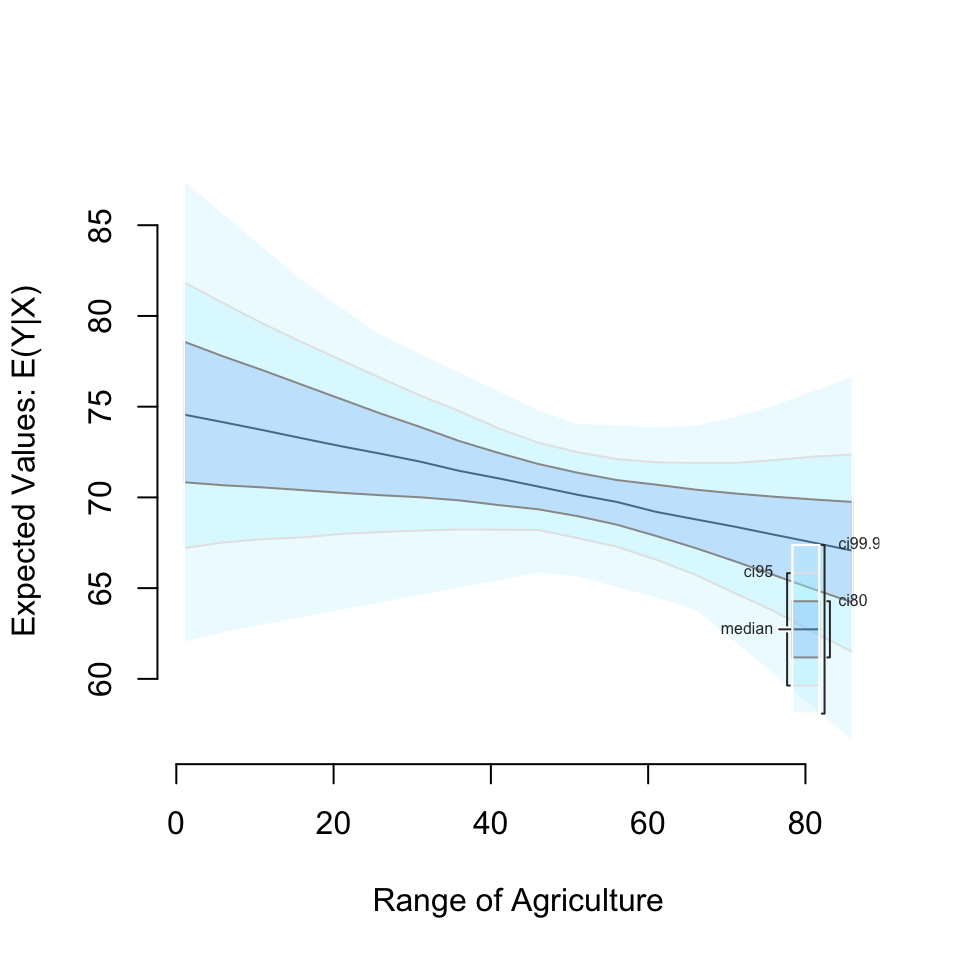
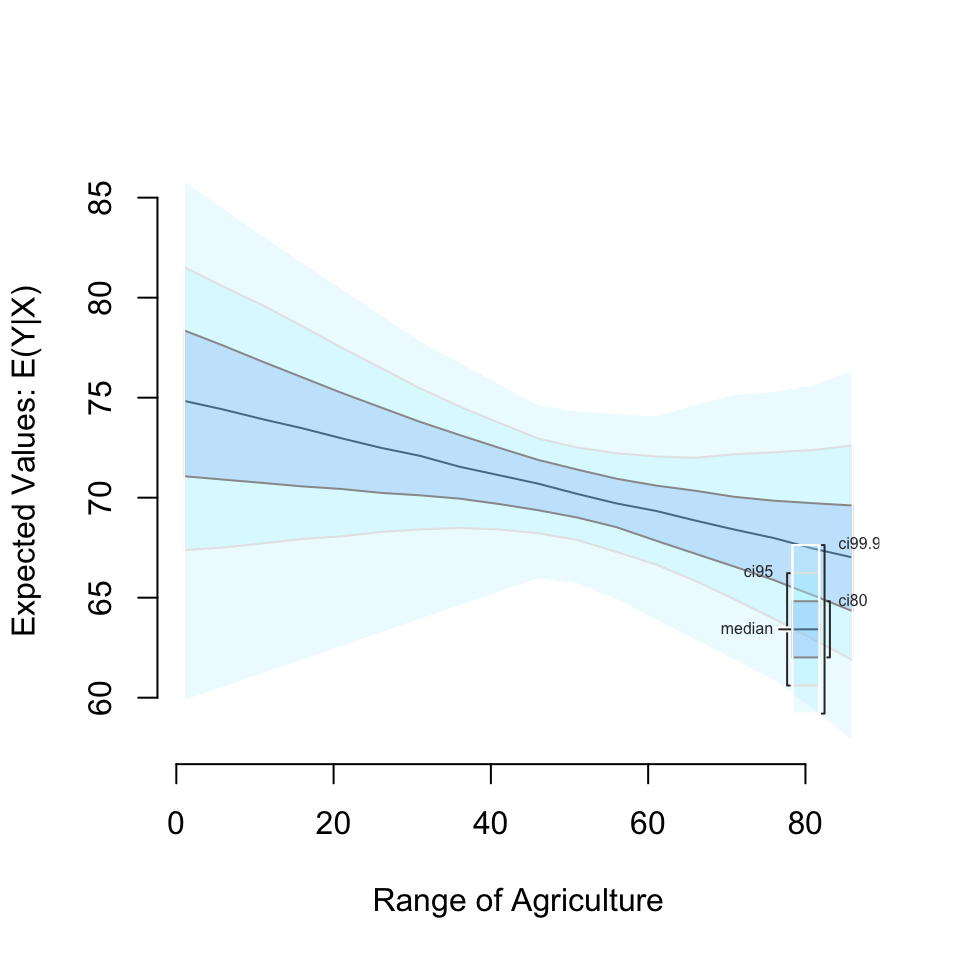
minor

diff --git a/docs/articles/available-models-overview_files/diagonalNetwork-binding-0.4/diagonalNetwork.js b/docs/articles/available-models-overview_files/diagonalNetwork-binding-0.4/diagonalNetwork.js
@@ -1,0 +1,189 @@
+HTMLWidgets.widget({
+
+  name: "diagonalNetwork",
+  type: "output",
+
+  initialize: function(el, width, height) {
+
+    d3.select(el).append("svg")
+      .style("width", "100%")
+      .style("height", "100%")
+      .append("g")
+      .attr("transform", "translate(40,0)");
+    return d3.tree();
+
+  },
+
+  resize: function(el, width, height, tree) {
+    // resize now handled by svg viewBox attribute
+    /*
+    var s = d3.select(el).selectAll("svg");
+    s.attr("width", width).attr("height", height);
+
+    var margin = {top: 20, right: 20, bottom: 20, left: 20};
+    width = width - margin.right - margin.left;
+    height = height - margin.top - margin.bottom;
+
+    tree.size([height, width]);
+    var svg = d3.select(el).selectAll("svg").select("g")
+      .attr("transform", "translate(" + margin.left + "," + margin.top + ")");
+    */
+
+  },
+
+  renderValue: function(el, x, tree) {
+    // x is a list with two elements, options and root; root must already be a
+    // JSON array with the d3Tree root data
+
+    var s = d3.select(el).selectAll("svg");
+
+    // when re-rendering the svg, the viewBox attribute set in the code below, will
+    // be affected by the previously set viewBox. This line ensures, that the
+    // viewBox will always be calculated right.
+    s.attr("viewBox", null);
+
+    // margin handling
+    //   set our default margin to be 20
+    //   will override with x.options.margin if provided
+    var margin = {top: 20, right: 20, bottom: 20, left: 20};
+    //   go through each key of x.options.margin
+    //   use this value if provided from the R side
+    Object.keys(x.options.margin).map(function(ky){
+      if(x.options.margin[ky] !== null) {
+        margin[ky] = x.options.margin[ky];
+      }
+      // set the margin on the svg with css style
+      // commenting this out since not correct
+      // s.style(["margin",ky].join("-"), margin[ky]);
+    });
+
+
+    width = s.node().getBoundingClientRect().width - margin.right - margin.left;
+    height = s.node().getBoundingClientRect().height - margin.top - margin.bottom;
+
+    //added Math.max(1, ...) to avoid NaN values when dealing with nodes of depth 0.
+    tree.size([height, width])
+      .separation(function(a, b) { return (a.parent == b.parent ? 1 : 2) / Math.max(1, a.depth); });
+
+    // select the svg group element and remove existing children
+    s.attr("pointer-events", "all").selectAll("*").remove();
+    s.append("g")
+      .attr("transform", "translate(" + margin.left + "," + margin.top + ")");
+
+    var svg = d3.select(el).selectAll("g");
+
+    var root = d3.hierarchy(x.root);
+    tree(root);
+
+    var diagonal = function(d, i) {
+      return "M" + d.source.y + "," + d.source.x
+                  + "C" + (d.source.y + d.target.y) / 2 + "," + d.source.x
+                  + " " + (d.source.y + d.target.y) / 2 + "," + d.target.x
+                  + " " + d.target.y + "," + d.target.x;
+    };
+
+    // draw links
+    var link = svg.selectAll(".link")
+      .data(root.links())
+      .enter().append("path")
+      .style("fill", "none")
+      .style("stroke", x.options.linkColour)
+      .style("opacity", "0.55")
+      .style("stroke-width", "1.5px")
+      .attr("d", diagonal);
+
+    // draw nodes
+    var node = svg.selectAll(".node")
+      .data(root.descendants())
+      .enter().append("g")
+      .attr("class", "node")
+      .attr("transform", function(d) {
+        return "translate(" + d.y + "," + d.x + ")";
+      })
+      .on("mouseover", mouseover)
+      .on("mouseout", mouseout);
+
+    // node circles
+    node.append("circle")
+        .attr("r", 4.5)
+        .style("fill", x.options.nodeColour)
+        .style("opacity", x.options.opacity)
+        .style("stroke", x.options.nodeStroke)
+        .style("stroke-width", "1.5px");
+
+    // node text
+    node.append("text")
+        .attr("dx", function(d) { return d.children ? -8 : 8; })
+        .attr("dy", ".31em")
+        .attr("text-anchor", function(d) {
+          return d.children || d._children ? "end" : "start";
+        })
+        .style("font", x.options.fontSize + "px " + x.options.fontFamily)
+        .style("opacity", x.options.opacity)
+        .style("fill", x.options.textColour)
+        .text(function(d) { return d.data.name; });
+
+    // adjust viewBox to fit the bounds of our tree
+    s.attr(
+        "viewBox",
+        [
+          d3.min(
+            s.selectAll('.node text').nodes().map(function(d){
+              return d.getBoundingClientRect().left
+            })
+          ) - s.node().getBoundingClientRect().left - margin.right,
+          d3.min(
+            s.selectAll('.node text').nodes().map(function(d){
+              return d.getBoundingClientRect().top
+            })
+          ) - s.node().getBoundingClientRect().top - margin.top,
+          d3.max(
+            s.selectAll('.node text').nodes().map(function(d){
+              return d.getBoundingClientRect().right
+            })
+          ) -
+          d3.min(
+            s.selectAll('.node text').nodes().map(function(d){
+              return d.getBoundingClientRect().left
+            })
+          ) + margin.left + margin.right,
+          d3.max(
+            s.selectAll('.node text').nodes().map(function(d){
+              return d.getBoundingClientRect().bottom
+            })
+          ) -
+          d3.min(
+            s.selectAll('.node text').nodes().map(function(d){
+              return d.getBoundingClientRect().top
+            })
+          ) + margin.top + margin.bottom
+        ].join(",")
+      );
+
+    // mouseover event handler
+    function mouseover() {
+      d3.select(this).select("circle").transition()
+        .duration(750)
+        .attr("r", 9);
+
+      d3.select(this).select("text").transition()
+        .duration(750)
+        .style("stroke-width", ".5px")
+        .style("font", "25px " + x.options.fontFamily)
+        .style("opacity", 1);
+    }
+
+    // mouseout event handler
+    function mouseout() {
+      d3.select(this).select("circle").transition()
+        .duration(750)
+        .attr("r", 4.5);
+
+      d3.select(this).select("text").transition()
+        .duration(750)
+        .style("font", x.options.fontSize + "px " + x.options.fontFamily)
+        .style("opacity", x.options.opacity);
+    }
+
+  },
+});

diff --git a/docs/articles/zelig-tidyverse.html b/docs/articles/zelig-tidyverse.html
@@ -190,12 +190,12 @@ swiss <span class="op">%&gt;%</span><span class="st"> </span>
 
 <span class="kw">head</span>(sims.full)</code></pre></div>
 <pre><code>##   setx_value Agriculture Examination expected_value predicted_value
-## 1          x           1    16.48936       76.41528        75.47596
-## 2          x           1    16.48936       72.75534        84.74508
-## 3          x           1    16.48936       73.49852        80.07780
-## 4          x           1    16.48936       80.14901        89.62973
-## 5          x           1    16.48936       76.99579        90.25763
-## 6          x           1    16.48936       83.83313        74.38445</code></pre>
+## 1          x           1    16.48936       72.99534        79.42264
+## 2          x           1    16.48936       81.80215        80.75995
+## 3          x           1    16.48936       75.51840        70.03156
+## 4          x           1    16.48936       75.79146        67.02142
+## 5          x           1    16.48936       69.54492        70.45713
+## 6          x           1    16.48936       71.10402        83.94419</code></pre>
 <p>Each row contains information for an individual “observation”, i.e. a quantity of interest calculated from one draw of the model parameters from the multivariate normal distribution.</p>
 <p>The first three columns of the object returned by <code>zelig_qi_to_df</code> in this case contain information that identifies the scenario that the quantity of interest is from. For example, the first row is from a scenario where <code>Agriculture</code> is fitted at <code>1</code> and <code>Examination</code> is fitted at the sample mean 16.4893617. The <code>setx_value</code> column identifies if the values were fitted by a <code>setx</code> call as <code>x</code> or <code>x1</code>–a contrasting scenario used to find first differences.</p>
 <p>The final two columns contain the expected and predicted value of the quantity of interest, respectively.<a href="#fn1" class="footnoteRef" id="fnref1"><sup>1</sup></a></p>
@@ -204,12 +204,12 @@ swiss <span class="op">%&gt;%</span><span class="st"> </span>
 <pre><code>## Slimming Expected Values . . .</code></pre>
 <div class="sourceCode"><pre class="sourceCode r"><code class="sourceCode r"><span class="kw">head</span>(sims.slimmed)</code></pre></div>
 <pre><code>##   setx_value Agriculture Examination qi_ci_min qi_ci_median qi_ci_max
-## 1          x           1    16.48936  66.34444     74.82101  83.72351
-## 2          x           6    16.48936  66.59330     74.33717  82.49264
-## 3          x          11    16.48936  66.90127     73.89156  81.21503
-## 4          x          16    16.48936  67.22545     73.43740  80.03091
-## 5          x          21    16.48936  67.47173     72.95070  78.80004
-## 6          x          26    16.48936  67.87379     72.45208  77.56918</code></pre>
+## 1          x           1    16.48936  65.94270     74.73759  83.25799
+## 2          x           6    16.48936  66.34784     74.23959  82.14131
+## 3          x          11    16.48936  66.72700     73.83116  81.02464
+## 4          x          16    16.48936  67.08506     73.32431  79.63945
+## 5          x          21    16.48936  67.32871     72.85389  78.48408
+## 6          x          26    16.48936  67.64051     72.42597  77.29087</code></pre>
 <p>Now we have one row for each scenario. This contains the columns <code>qi_ci_min</code>, <code>qi_ci_median</code>, and <code>qi_ci_max</code> for the central interval of the simulations from each scenario. By default <code>qi_ci_min</code> and <code>qi_ci_max</code> contain central interval bounds at the lower 2.5 and upper 97.5 percentiles, respectively. <code>qi_ci_median</code> contains the simulated distribution’s median. The interval can be changed with the <code>ci</code> argument. You can choose expected value (<code>ev</code>) or predicted value (<code>pv</code>) with the <code>qi_ci_type</code> argument.</p>
 <p>Now we have everything to make a ggplot2 plot summarizing the simulated quantity of interest:</p>
 <div class="sourceCode"><pre class="sourceCode r"><code class="sourceCode r"><span class="kw">ggplot</span>(sims.slimmed, <span class="kw">aes</span>(Agriculture, qi_ci_median)) <span class="op">+</span>

diff --git a/docs/articles/available-models-overview.html b/docs/articles/available-models-overview.html
@@ -131,8 +131,8 @@
 <h3 class="hasAnchor">
 <html><body><a href="#zelig-inheritance-tree" class="anchor"> </a></body></html>Zelig Inheritance Tree</h3>
 <p>Zelig 5 supports the following models:</p>
-<div id="htmlwidget-e3bf866322fd6a897bcb" style="width:672px;height:480px;" class="diagonalNetwork html-widget"></div>
-<script type="application/json" data-for="htmlwidget-e3bf866322fd6a897bcb">{"x":{"root":{"name":"Zelig","children":[{"name":"Core","children":[{"name":"timeseries","children":[{"name":"ar"},{"name":"ma"},{"name":"arima"}]},{"name":"survey","children":[{"name":"poisson"},{"name":"gamma"},{"name":"normal"},{"name":"binchoice","children":[{"name":"probit"},{"name":"logit"}]}]},{"name":"wiebull"},{"name":"bayes"},{"name":"factor-bayes"},{"name":"gee"},{"name":"relogit"},{"name":"quantile"},{"name":"tobit"},{"name":"lognorm"},{"name":"exp"},{"name":"negbin"},{"name":"glm"},{"name":"ls"}]},{"name":"Choice","children":[{"name":"obinchoice"},{"name":"mlogit"},{"name":"bbinchoice"}]},{"name":"GAM","children":[{"name":"gam"}]},{"name":"EI","children":[{"name":"ei"}]}]},"options":{"height":null,"width":null,"fontSize":15,"fontFamily":"sans-serif","linkColour":"#ccc","nodeColour":"#fff","nodeStroke":"d16103","textColour":"#111","margin":{"top":null,"right":null,"bottom":null,"left":null},"opacity":0.9}},"evals":[],"jsHooks":[]}</script>
+<div id="htmlwidget-5d93cb6b82a37dd29328" style="width:672px;height:480px;" class="diagonalNetwork html-widget"></div>
+<script type="application/json" data-for="htmlwidget-5d93cb6b82a37dd29328">{"x":{"root":{"name":"Zelig","children":[{"name":"Core","children":[{"name":"timeseries","children":[{"name":"ar"},{"name":"ma"},{"name":"arima"}]},{"name":"survey","children":[{"name":"poisson"},{"name":"gamma"},{"name":"normal"},{"name":"binchoice","children":[{"name":"probit"},{"name":"logit"}]}]},{"name":"wiebull"},{"name":"bayes"},{"name":"factor-bayes"},{"name":"gee"},{"name":"relogit"},{"name":"quantile"},{"name":"tobit"},{"name":"lognorm"},{"name":"exp"},{"name":"negbin"},{"name":"glm"},{"name":"ls"}]},{"name":"Choice","children":[{"name":"obinchoice"},{"name":"mlogit"},{"name":"bbinchoice"}]},{"name":"GAM","children":[{"name":"gam"}]},{"name":"EI","children":[{"name":"ei"}]}]},"options":{"height":null,"width":null,"fontSize":15,"fontFamily":"sans-serif","linkColour":"#ccc","nodeColour":"#fff","nodeStroke":"d16103","textColour":"#111","margin":{"top":null,"right":null,"bottom":null,"left":null},"opacity":0.9}},"evals":[],"jsHooks":[]}</script>
 </div>
 </div>
   </div>

diff --git a/docs/reference/qi_slimmer.html b/docs/reference/qi_slimmer.html
@@ -169,8 +169,12 @@ central intervals for the expected value or predicted value, respectively.</dd>
     
 
     <h2 class="hasAnchor" id="examples"><a class="anchor" href="#examples"></a>Examples</h2>
-    <pre class="examples"><div class='input'><span class='fu'>library</span>(<span class='no'>dplyr</span>)
-<span class='no'>qi.central.interval</span> <span class='kw'>&lt;-</span> <span class='fu'><a href='zelig.html'>zelig</a></span>(<span class='no'>Petal.Width</span> ~ <span class='no'>Petal.Length</span> + <span class='no'>Species</span>,
+    <pre class="examples"><div class='input'><span class='fu'>library</span>(<span class='no'>dplyr</span>)</div><div class='output co'>#&gt; <span class='message'></span>
+#&gt; <span class='message'>Attaching package: ‘dplyr’</span></div><div class='output co'>#&gt; <span class='message'>The following objects are masked from ‘package:stats’:</span>
+#&gt; <span class='message'></span>
+#&gt; <span class='message'>    filter, lag</span></div><div class='output co'>#&gt; <span class='message'>The following objects are masked from ‘package:base’:</span>
+#&gt; <span class='message'></span>
+#&gt; <span class='message'>    intersect, setdiff, setequal, union</span></div><div class='input'><span class='no'>qi.central.interval</span> <span class='kw'>&lt;-</span> <span class='fu'><a href='zelig.html'>zelig</a></span>(<span class='no'>Petal.Width</span> ~ <span class='no'>Petal.Length</span> + <span class='no'>Species</span>,
              <span class='kw'>data</span> <span class='kw'>=</span> <span class='no'>iris</span>, <span class='kw'>model</span> <span class='kw'>=</span> <span class='st'>"ls"</span>) <span class='kw'>%&gt;%</span>
              <span class='fu'><a href='setx.html'>setx</a></span>(<span class='kw'>Petal.Length</span> <span class='kw'>=</span> <span class='fl'>2</span>:<span class='fl'>4</span>, <span class='kw'>Species</span> <span class='kw'>=</span> <span class='st'>"setosa"</span>) <span class='kw'>%&gt;%</span>
              <span class='fu'><a href='sim.html'>sim</a></span>() <span class='kw'>%&gt;%</span>
